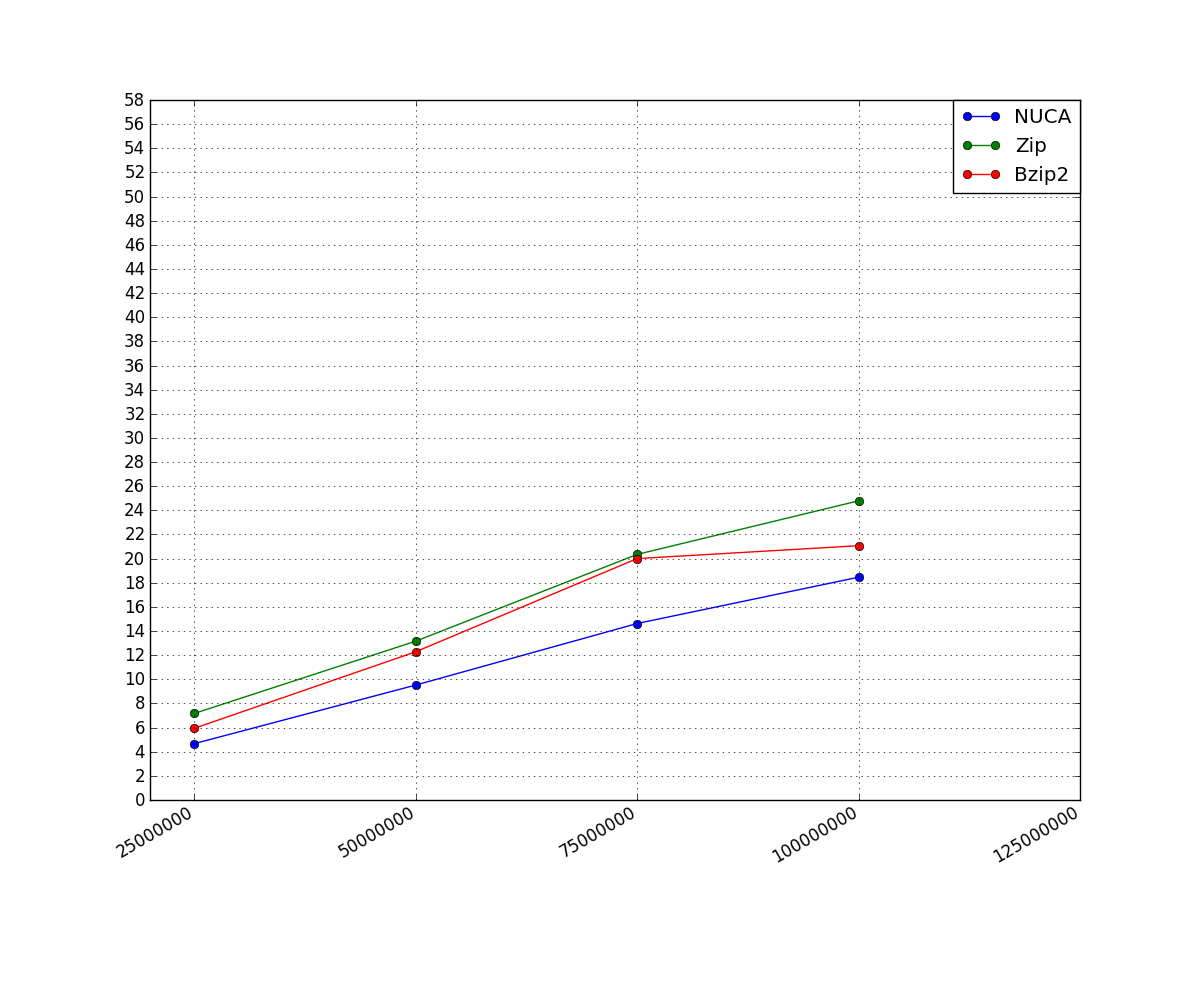
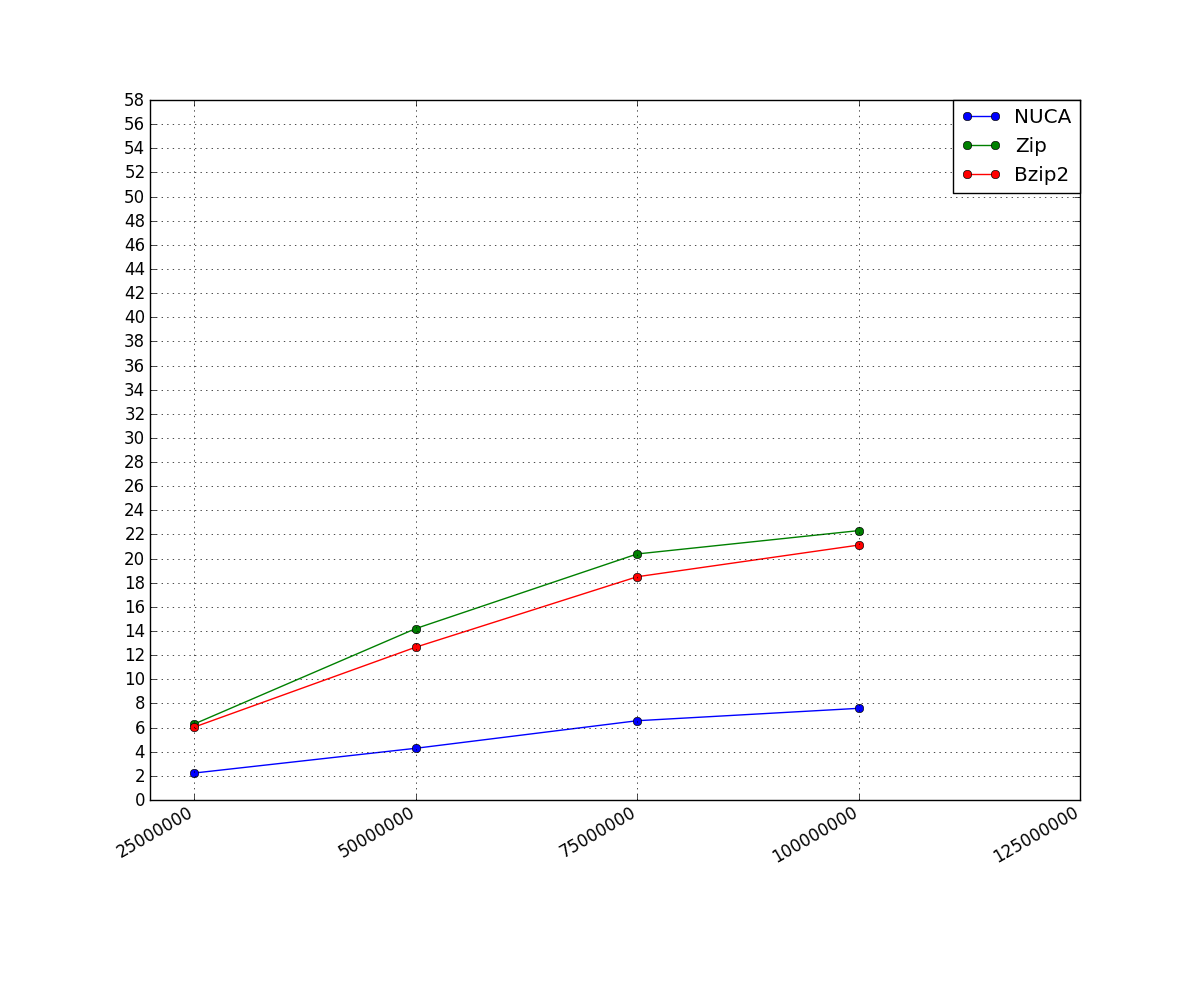
updated graphics

diff --git a/doc/data/statistics.py b/doc/data/statistics.py
@@ -1,6 +1,6 @@
 #FuDePAN 2011
 #Before running your must compile nuca:
-#g++ compression.cpp -o nuca -I../../nuca -DMILI_NAMESPACE -lbiopp -Wall -ansi
+#g++ compression.cpp -o nuca -I../../nuca -DMILI_NAMESPACE -lbiopp -Wall -ansi -O3
 
 import os
 import json
@@ -13,8 +13,8 @@ from subprocess import *
 def save_graphics (nuca_data, zip_data, bzip2_data, y_range, file_out, n, len_f):
 	
 	figure = matplotlib.pyplot.figure(figsize=(12, 10))
-	t = numpy.arange (5, 5 * (n + 1), 5)
-	x = numpy.arange (5, 5 * (n + 2), 5)
+	t = numpy.arange (5, 5 * n, 5)
+	x = numpy.arange (5, 5 * (n + 1), 5)
 	
 	ax = figure.add_subplot (111)
 	ax.plot (t, nuca_data, 'o-', label = "NUCA")
@@ -23,12 +23,33 @@ def save_graphics (nuca_data, zip_data, bzip2_data, y_range, file_out, n, len_f)
 	matplotlib.pyplot.yticks (y_range)
 	
 	ax.set_xticks (x)
-	ax.set_xticklabels (map (lambda x : str (x), numpy.arange (len_f, len_f * (n + 1) + 1, len_f)))
+	ax.set_xticklabels (map (lambda x : str (x), numpy.arange (len_f, len_f * n + 1, len_f)))
 	ax.grid (True)
 	
 	ax.legend (('NUCA', 'Zip', 'Bzip2'), bbox_to_anchor=(1, 1), loc=1, borderaxespad=0)
 	figure.autofmt_xdate()
 	figure.savefig (file_out)
+	
+def graph_average (nuca_d, zip_d, bzip2_d, names):
+	
+	lendata = len(nuca_d)
+	width = 0.30
+        
+	figure = matplotlib.pyplot.figure(figsize=(12, 10))
+        
+	ax = figure.add_subplot (111)
+	nuca_rect = ax.bar (range (lendata), nuca_d, width, facecolor='blue', align='center')
+	zip_rect = ax.bar (map (lambda x : x + width, range (lendata)), zip_d, width, facecolor='green', align='center')
+	bzip2_rect = ax.bar (map (lambda x : x + (width * 2), range (lendata)), bzip2_d, width, facecolor='red', align='center')
+	matplotlib.pyplot.yticks (numpy.arange (0, 0.90, 0.03))
+	ax.set_xticks (map (lambda x : x + width, range (lendata)))
+	ax.set_xticklabels (names)
+	ax.grid (True)
+	ax.legend ((nuca_rect[0], zip_rect[0], bzip2_rect[0]), ("NUCA", "Zip", "Bzip2"), bbox_to_anchor=(1, 1), loc=1, borderaxespad=0)
+	figure.autofmt_xdate()
+
+	figure.savefig ("average.png")
+	
 	
 def create_files (orig, size, name, n):
 	
@@ -79,6 +100,10 @@ def calculate_compresion (args, size_str, filen, fil_del):
 	
 if __name__ == "__main__":
 	data = json.load(open("data.json"))
+	
+	nuca_list_average = []
+	zip_list_average = []
+	bzip2_list_average = []
 
 	for chromosomes in data["chromosomes"]:
 		
@@ -88,6 +113,9 @@ if __name__ == "__main__":
 		nuca_exec = []
 		bzip2_exec = []
 		zip_exec = []
+		nuca_average = 0
+		zip_average = 0
+		bzip2_average = 0
 		
 		n = 1
 		
@@ -109,6 +137,10 @@ if __name__ == "__main__":
 			zip_cmpr.append (zip_pair[0])
 			bzip2_cmpr.append (bzip2_pair[0])
 			
+			nuca_average = nuca_average + nuca_pair[0]
+			zip_average = zip_average + zip_pair[0]
+			bzip2_average = bzip2_average + bzip2_pair[0]
+			
 			nuca_exec.append (nuca_pair[1])
 			zip_exec.append (zip_pair[1])
 			bzip2_exec.append (bzip2_pair[1])
@@ -117,5 +149,11 @@ if __name__ == "__main__":
 			filen = chromosomes["name"] + str(size)
 			n = n + 1
 			
-		save_graphics (nuca_cmpr, zip_cmpr, bzip2_cmpr, numpy.arange (0, 0.90, 0.03), chromosomes["out_compr"], n - 1, data["len"])
-		save_graphics (nuca_exec, zip_exec, bzip2_exec, numpy.arange (0, 60, 2), chromosomes["out_exec"], n - 1, data["len"])
+		save_graphics (nuca_cmpr, zip_cmpr, bzip2_cmpr, numpy.arange (0, 0.90, 0.03), chromosomes["out_compr"], n, data["len"])
+		save_graphics (nuca_exec, zip_exec, bzip2_exec, numpy.arange (0, 60, 2), chromosomes["out_exec"], n, data["len"])
+		
+		nuca_list_average.append (nuca_average / float(n - 1))
+		zip_list_average.append (zip_average / float(n - 1))
+		bzip2_list_average.append (bzip2_average / float(n - 1))
+		
+	graph_average (nuca_list_average, zip_list_average, bzip2_list_average, [x["show"] for x in data["chromosomes"]])
